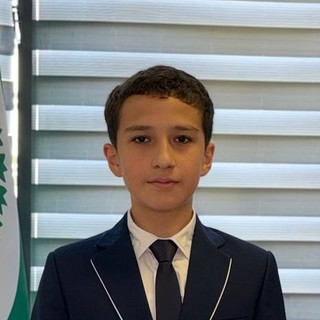
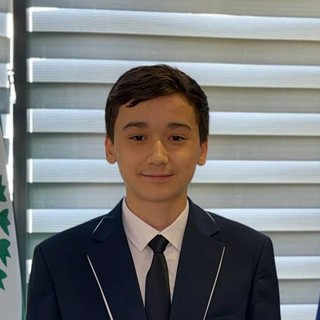
Fix swapped photos, replace Ruxsora photo
Claude-Session: https://claude.ai/code/session_01CBH8yaKx6sUqd6VYkLhC2s

diff --git a/index.html b/index.html
@@ -5,7 +5,7 @@
   <meta name="viewport" content="width=device-width, initial-scale=1">
   <title>Greenaissance | Eco Committee</title>
   <meta name="description" content="School Eco Committee: recycling, school garden, saving energy and clean-up days.">
-  <link rel="stylesheet" href="style.css?v=5">
+  <link rel="stylesheet" href="style.css?v=6">
 </head>
 <body data-title="nav_home">
   <header class="site-header" id="site-header"></header>
@@ -46,7 +46,7 @@
   </main>
 
   <footer class="site-footer" id="site-footer"></footer>
-  <script src="translations.js?v=5"></script>
-  <script src="main.js?v=5"></script>
+  <script src="translations.js?v=6"></script>
+  <script src="main.js?v=6"></script>
 </body>
 </html>

diff --git a/achievements.html b/achievements.html
@@ -4,7 +4,7 @@
   <meta charset="UTF-8">
   <meta name="viewport" content="width=device-width, initial-scale=1">
   <title>Achievements / Awards | Greenaissance</title>
-  <link rel="stylesheet" href="style.css?v=5">
+  <link rel="stylesheet" href="style.css?v=6">
 </head>
 <body data-title="nav_awards">
   <header class="site-header" id="site-header"></header>
@@ -28,7 +28,7 @@
   </main>
 
   <footer class="site-footer" id="site-footer"></footer>
-  <script src="translations.js?v=5"></script>
-  <script src="main.js?v=5"></script>
+  <script src="translations.js?v=6"></script>
+  <script src="main.js?v=6"></script>
 </body>
 </html>

diff --git a/projects.html b/projects.html
@@ -4,7 +4,7 @@
   <meta charset="UTF-8">
   <meta name="viewport" content="width=device-width, initial-scale=1">
   <title>Eco Projects | Greenaissance</title>
-  <link rel="stylesheet" href="style.css?v=5">
+  <link rel="stylesheet" href="style.css?v=6">
 </head>
 <body data-title="nav_projects">
   <header class="site-header" id="site-header"></header>
@@ -30,7 +30,7 @@
   </main>
 
   <footer class="site-footer" id="site-footer"></footer>
-  <script src="translations.js?v=5"></script>
-  <script src="main.js?v=5"></script>
+  <script src="translations.js?v=6"></script>
+  <script src="main.js?v=6"></script>
 </body>
 </html>

diff --git a/news.html b/news.html
@@ -4,7 +4,7 @@
   <meta charset="UTF-8">
   <meta name="viewport" content="width=device-width, initial-scale=1">
   <title>News & Events | Greenaissance</title>
-  <link rel="stylesheet" href="style.css?v=5">
+  <link rel="stylesheet" href="style.css?v=6">
 </head>
 <body data-title="nav_news">
   <header class="site-header" id="site-header"></header>
@@ -36,7 +36,7 @@
   </main>
 
   <footer class="site-footer" id="site-footer"></footer>
-  <script src="translations.js?v=5"></script>
-  <script src="main.js?v=5"></script>
+  <script src="translations.js?v=6"></script>
+  <script src="main.js?v=6"></script>
 </body>
 </html>

diff --git a/contact.html b/contact.html
@@ -4,7 +4,7 @@
   <meta charset="UTF-8">
   <meta name="viewport" content="width=device-width, initial-scale=1">
   <title>Contact | Greenaissance</title>
-  <link rel="stylesheet" href="style.css?v=5">
+  <link rel="stylesheet" href="style.css?v=6">
 </head>
 <body data-title="nav_contact">
   <header class="site-header" id="site-header"></header>
@@ -44,7 +44,7 @@
   </main>
 
   <footer class="site-footer" id="site-footer"></footer>
-  <script src="translations.js?v=5"></script>
-  <script src="main.js?v=5"></script>
+  <script src="translations.js?v=6"></script>
+  <script src="main.js?v=6"></script>
 </body>
 </html>

diff --git a/team.html b/team.html
@@ -4,7 +4,7 @@
   <meta charset="UTF-8">
   <meta name="viewport" content="width=device-width, initial-scale=1">
   <title>Our Team | Greenaissance</title>
-  <link rel="stylesheet" href="style.css?v=5">
+  <link rel="stylesheet" href="style.css?v=6">
 </head>
 <body data-title="nav_team">
   <header class="site-header" id="site-header"></header>
@@ -38,7 +38,7 @@
   </main>
 
   <footer class="site-footer" id="site-footer"></footer>
-  <script src="translations.js?v=5"></script>
-  <script src="main.js?v=5"></script>
+  <script src="translations.js?v=6"></script>
+  <script src="main.js?v=6"></script>
 </body>
 </html>
